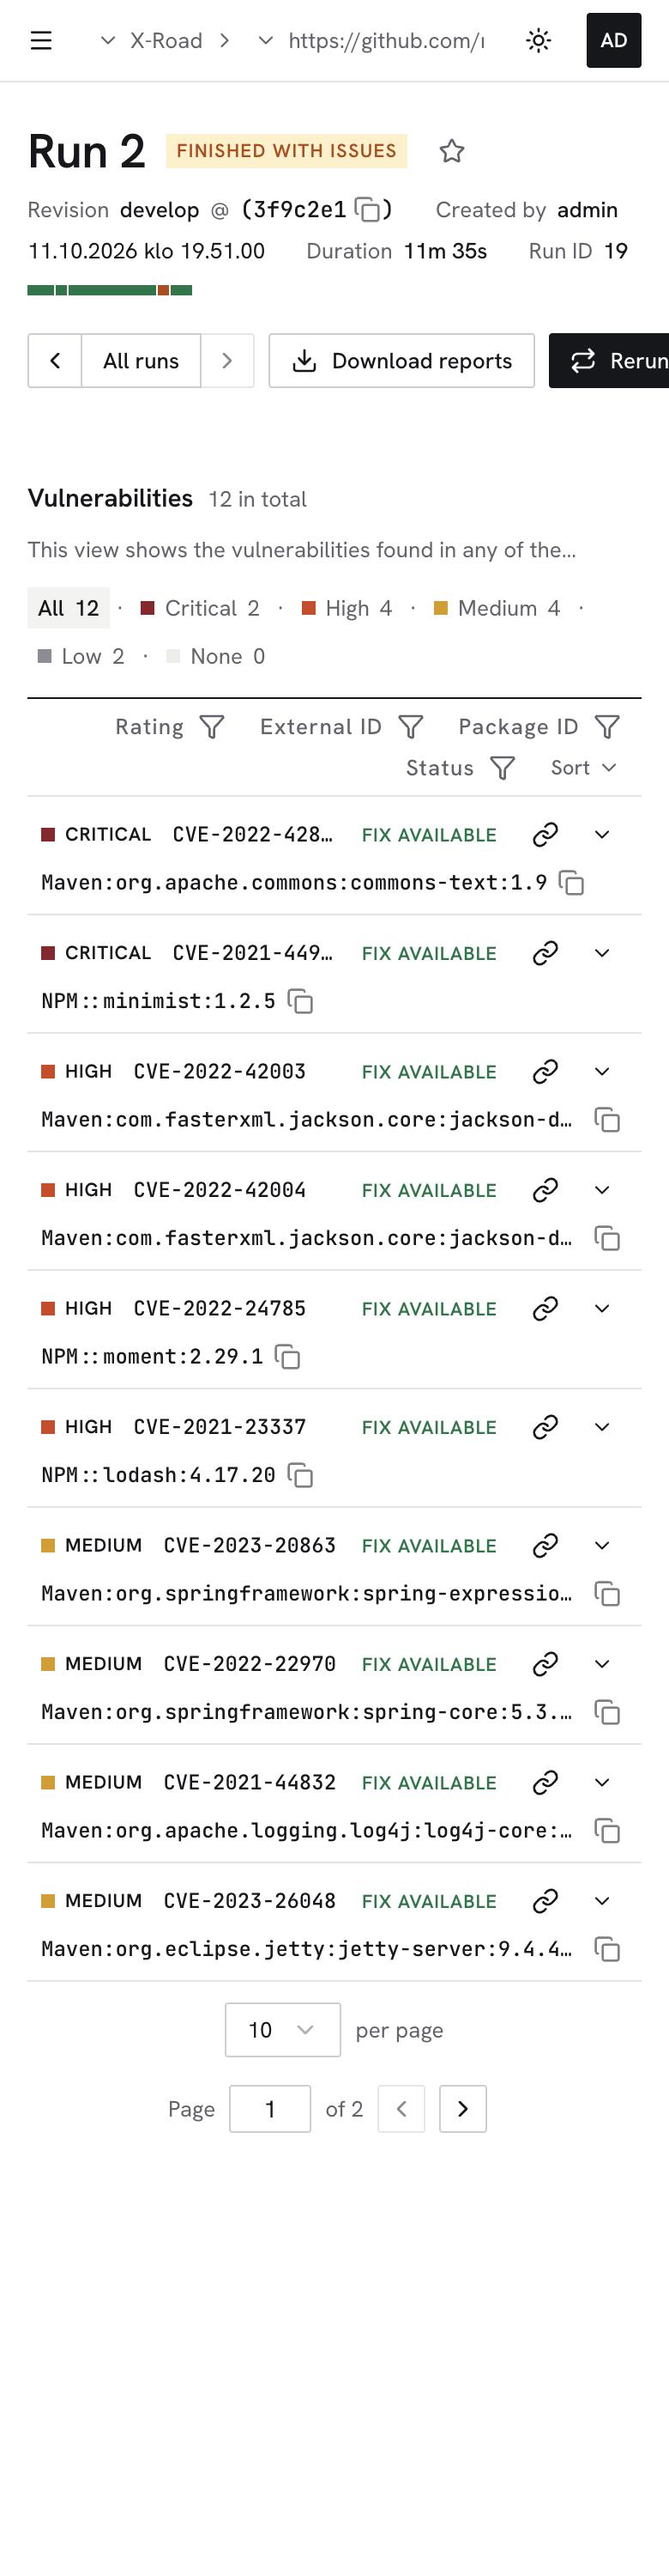
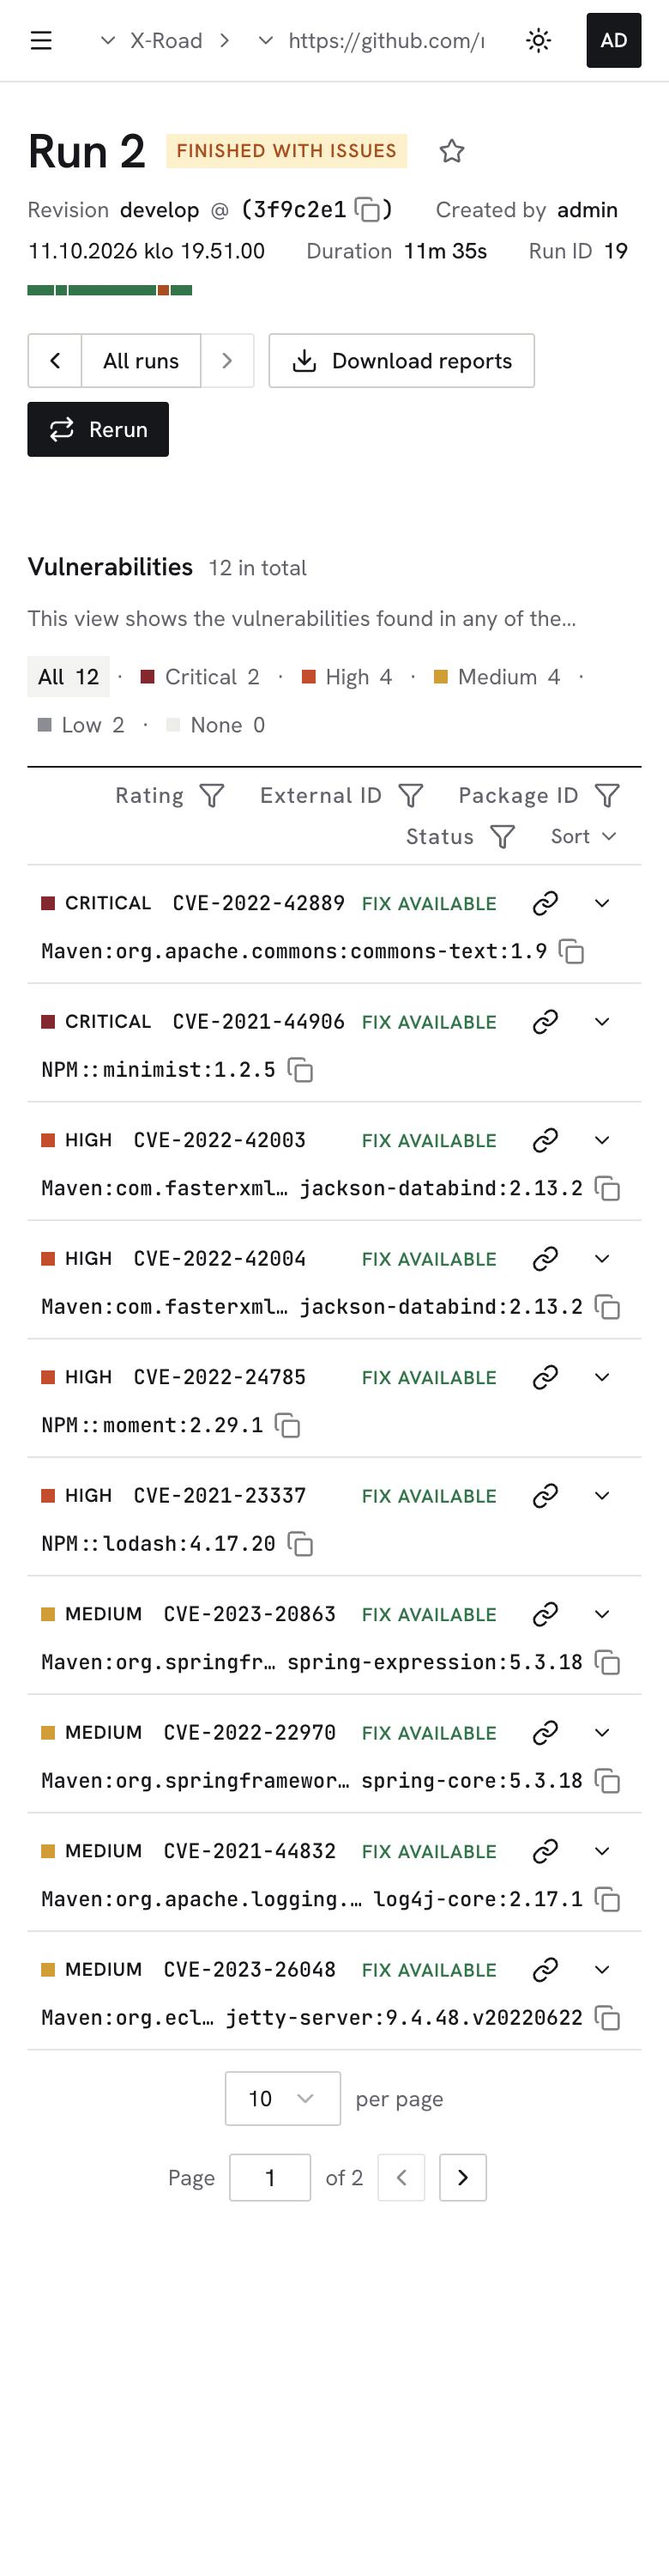
ui: Keep finding identifiers readable
Truncate package coordinates in the middle so the name and version stay
visible, and never truncate vulnerability IDs.

diff --git a/ui/src/components/data-table-cards/findings-cells.tsx b/ui/src/components/data-table-cards/findings-cells.tsx
@@ -77,6 +77,32 @@ export const EmptyValue = () => (
 );
 
 /**
+ * Splits a package identifier where it can be shortened: before the name and version, which must
+ * stay readable. Handles ORT ids (`Maven:org.apache.commons:commons-text:1.9`) and purls
+ * (`pkg:maven/org.apache.commons/commons-text@1.9`).
+ */
+const splitIdentifier = (value: string): [string, string] => {
+  const slash = value.lastIndexOf('/');
+  if (slash > 0) return [value.slice(0, slash + 1), value.slice(slash + 1)];
+  const last = value.lastIndexOf(':');
+  const cut = last > 0 ? value.lastIndexOf(':', last - 1) : -1;
+  return cut > 0
+    ? [value.slice(0, cut + 1), value.slice(cut + 1)]
+    : ['', value];
+};
+
+/** A long identifier truncated in the middle, so its name and version stay visible. */
+export const MiddleTruncate = ({ value }: { value: string }) => {
+  const [head, tail] = splitIdentifier(value);
+  return (
+    <span className='flex min-w-0' title={value}>
+      {head && <span className='min-w-0 truncate'>{head}</span>}
+      <span className='shrink-0 whitespace-nowrap'>{tail}</span>
+    </span>
+  );
+};
+
+/**
  * An identifier with a button to copy it. The button shows up while the row is
  * hovered or focused. Without an identifier, only a dash is shown.
  */
@@ -93,7 +119,13 @@ export const CopyableValue = ({
 
   return (
     <span className={cn('flex min-w-0 items-center gap-0.5', className)}>
-      <span className='min-w-0 truncate'>{children ?? value}</span>
+      {children === undefined || typeof children === 'string' ? (
+        <MiddleTruncate
+          value={typeof children === 'string' ? children : value}
+        />
+      ) : (
+        <span className='min-w-0 truncate'>{children}</span>
+      )}
       <CopyToClipboard
         copyText={value}
         className='h-5 shrink-0 px-1 md:opacity-0 md:group-focus-within/finding:opacity-100 md:group-hover/finding:opacity-100 [&_svg]:size-3'

diff --git a/ui/src/routes/organizations/$orgId/products/$productId/repositories/$repoId/runs/$runIndex/vulnerabilities/index.tsx b/ui/src/routes/organizations/$orgId/products/$productId/repositories/$repoId/runs/$runIndex/vulnerabilities/index.tsx
@@ -38,6 +38,7 @@ import {
   CopyableValue,
   EmptyValue,
   FindingText,
+  MiddleTruncate,
   ResolvedMark,
   SeverityMark,
 } from '@/components/data-table-cards/findings-cells';
@@ -143,7 +144,7 @@ const VulnerabilityPackage = ({
       <Tooltip>
         <TooltipTrigger asChild>
           <Link
-            className='link'
+            className='link flex min-w-0'
             to='/organizations/$orgId/products/$productId/repositories/$repoId/runs/$runIndex/packages'
             params={{
               orgId: params.orgId,
@@ -153,7 +154,7 @@ const VulnerabilityPackage = ({
             }}
             search={{ pkgId: id, pkgIdType: idType, marked: '0' }}
           >
-            {id}
+            <MiddleTruncate value={id} />
           </Link>
         </TooltipTrigger>
         <TooltipContent>
@@ -228,7 +229,7 @@ const VulnerabilitiesComponent = () => {
           <div className='flex min-w-0 items-center gap-2'>
             <FindingText
               resolved={resolved}
-              className='truncate font-mono text-xs font-medium'
+              className='font-mono text-xs font-medium whitespace-nowrap'
             >
               {row.original.vulnerability.externalId}
             </FindingText>

diff --git a/ui/src/routes/organizations/$orgId/products/$productId/repositories/$repoId/runs/$runIndex/rule-violations/index.tsx b/ui/src/routes/organizations/$orgId/products/$productId/repositories/$repoId/runs/$runIndex/rule-violations/index.tsx
@@ -35,6 +35,7 @@ import { DataTableCards } from '@/components/data-table-cards/data-table-cards';
 import {
   CopyableValue,
   FindingText,
+  MiddleTruncate,
   ResolvedMark,
   SeverityMark,
 } from '@/components/data-table-cards/findings-cells';
@@ -132,21 +133,21 @@ const RuleViolationPackage = ({
         <TooltipTrigger asChild>
           {ruleViolation.purl != null ? (
             <Link
-              className='link'
+              className='link flex min-w-0'
               to='/organizations/$orgId/products/$productId/repositories/$repoId/runs/$runIndex/packages'
               params={linkParams}
               search={{ pkgId: id, pkgIdType: idType, marked: '0' }}
             >
-              {id}
+              <MiddleTruncate value={id} />
             </Link>
           ) : (
             <Link
-              className='link'
+              className='link flex min-w-0'
               to='/organizations/$orgId/products/$productId/repositories/$repoId/runs/$runIndex/projects'
               params={linkParams}
               search={{ projectId: id, marked: id }}
             >
-              {id}
+              <MiddleTruncate value={id} />
             </Link>
           )}
         </TooltipTrigger>

diff --git a/ui/src/routes/organizations/$orgId/vulnerabilities/index.tsx b/ui/src/routes/organizations/$orgId/vulnerabilities/index.tsx
@@ -33,6 +33,7 @@ import { VulnerabilityMetrics } from '@/components/charts/vulnerability-metrics'
 import { DataTableCards } from '@/components/data-table-cards/data-table-cards';
 import {
   CopyableValue,
+  MiddleTruncate,
   SeverityMark,
 } from '@/components/data-table-cards/findings-cells';
 import { FindingsFilterChips } from '@/components/data-table-cards/findings-filter-chips';
@@ -101,7 +102,7 @@ const VulnerabilityPackage = ({
 
   return (
     <CopyableValue value={id} className='font-mono text-xs'>
-      <span title={id}>{id}</span>
+      <MiddleTruncate value={id} />
     </CopyableValue>
   );
 };
@@ -296,7 +297,7 @@ const OrganizationVulnerabilitiesComponent = () => {
       id: 'vulnerabilityId',
       header: 'ID',
       cell: ({ row }) => (
-        <div className='truncate font-mono text-xs font-medium'>
+        <div className='font-mono text-xs font-medium whitespace-nowrap'>
           {row.original.vulnerability.externalId}
         </div>
       ),

diff --git a/ui/src/routes/organizations/$orgId/products/$productId/vulnerabilities/index.tsx b/ui/src/routes/organizations/$orgId/products/$productId/vulnerabilities/index.tsx
@@ -33,6 +33,7 @@ import { VulnerabilityMetrics } from '@/components/charts/vulnerability-metrics'
 import { DataTableCards } from '@/components/data-table-cards/data-table-cards';
 import {
   CopyableValue,
+  MiddleTruncate,
   SeverityMark,
 } from '@/components/data-table-cards/findings-cells';
 import { FindingsFilterChips } from '@/components/data-table-cards/findings-filter-chips';
@@ -101,7 +102,7 @@ const VulnerabilityPackage = ({
 
   return (
     <CopyableValue value={id} className='font-mono text-xs'>
-      <span title={id}>{id}</span>
+      <MiddleTruncate value={id} />
     </CopyableValue>
   );
 };
@@ -235,7 +236,7 @@ const ProductVulnerabilitiesComponent = () => {
       id: 'vulnerabilityId',
       header: 'ID',
       cell: ({ row }) => (
-        <div className='truncate font-mono text-xs font-medium'>
+        <div className='font-mono text-xs font-medium whitespace-nowrap'>
           {row.original.vulnerability.externalId}
         </div>
       ),

diff --git a/ui/src/routes/organizations/$orgId/products/$productId/repositories/$repoId/runs/$runIndex/packages/index.tsx b/ui/src/routes/organizations/$orgId/products/$productId/repositories/$repoId/runs/$runIndex/packages/index.tsx
@@ -115,11 +115,7 @@ const PackageId = ({ pkg }: { pkg: Package }) => {
       ? pkg.purl
       : identifierToString(pkg.identifier);
 
-  return (
-    <CopyableValue value={id} className='font-mono text-xs font-medium'>
-      <span title={id}>{id}</span>
-    </CopyableValue>
-  );
+  return <CopyableValue value={id} className='font-mono text-xs font-medium' />;
 };
 
 // The marks of a curated, metadata-only or modified package.
